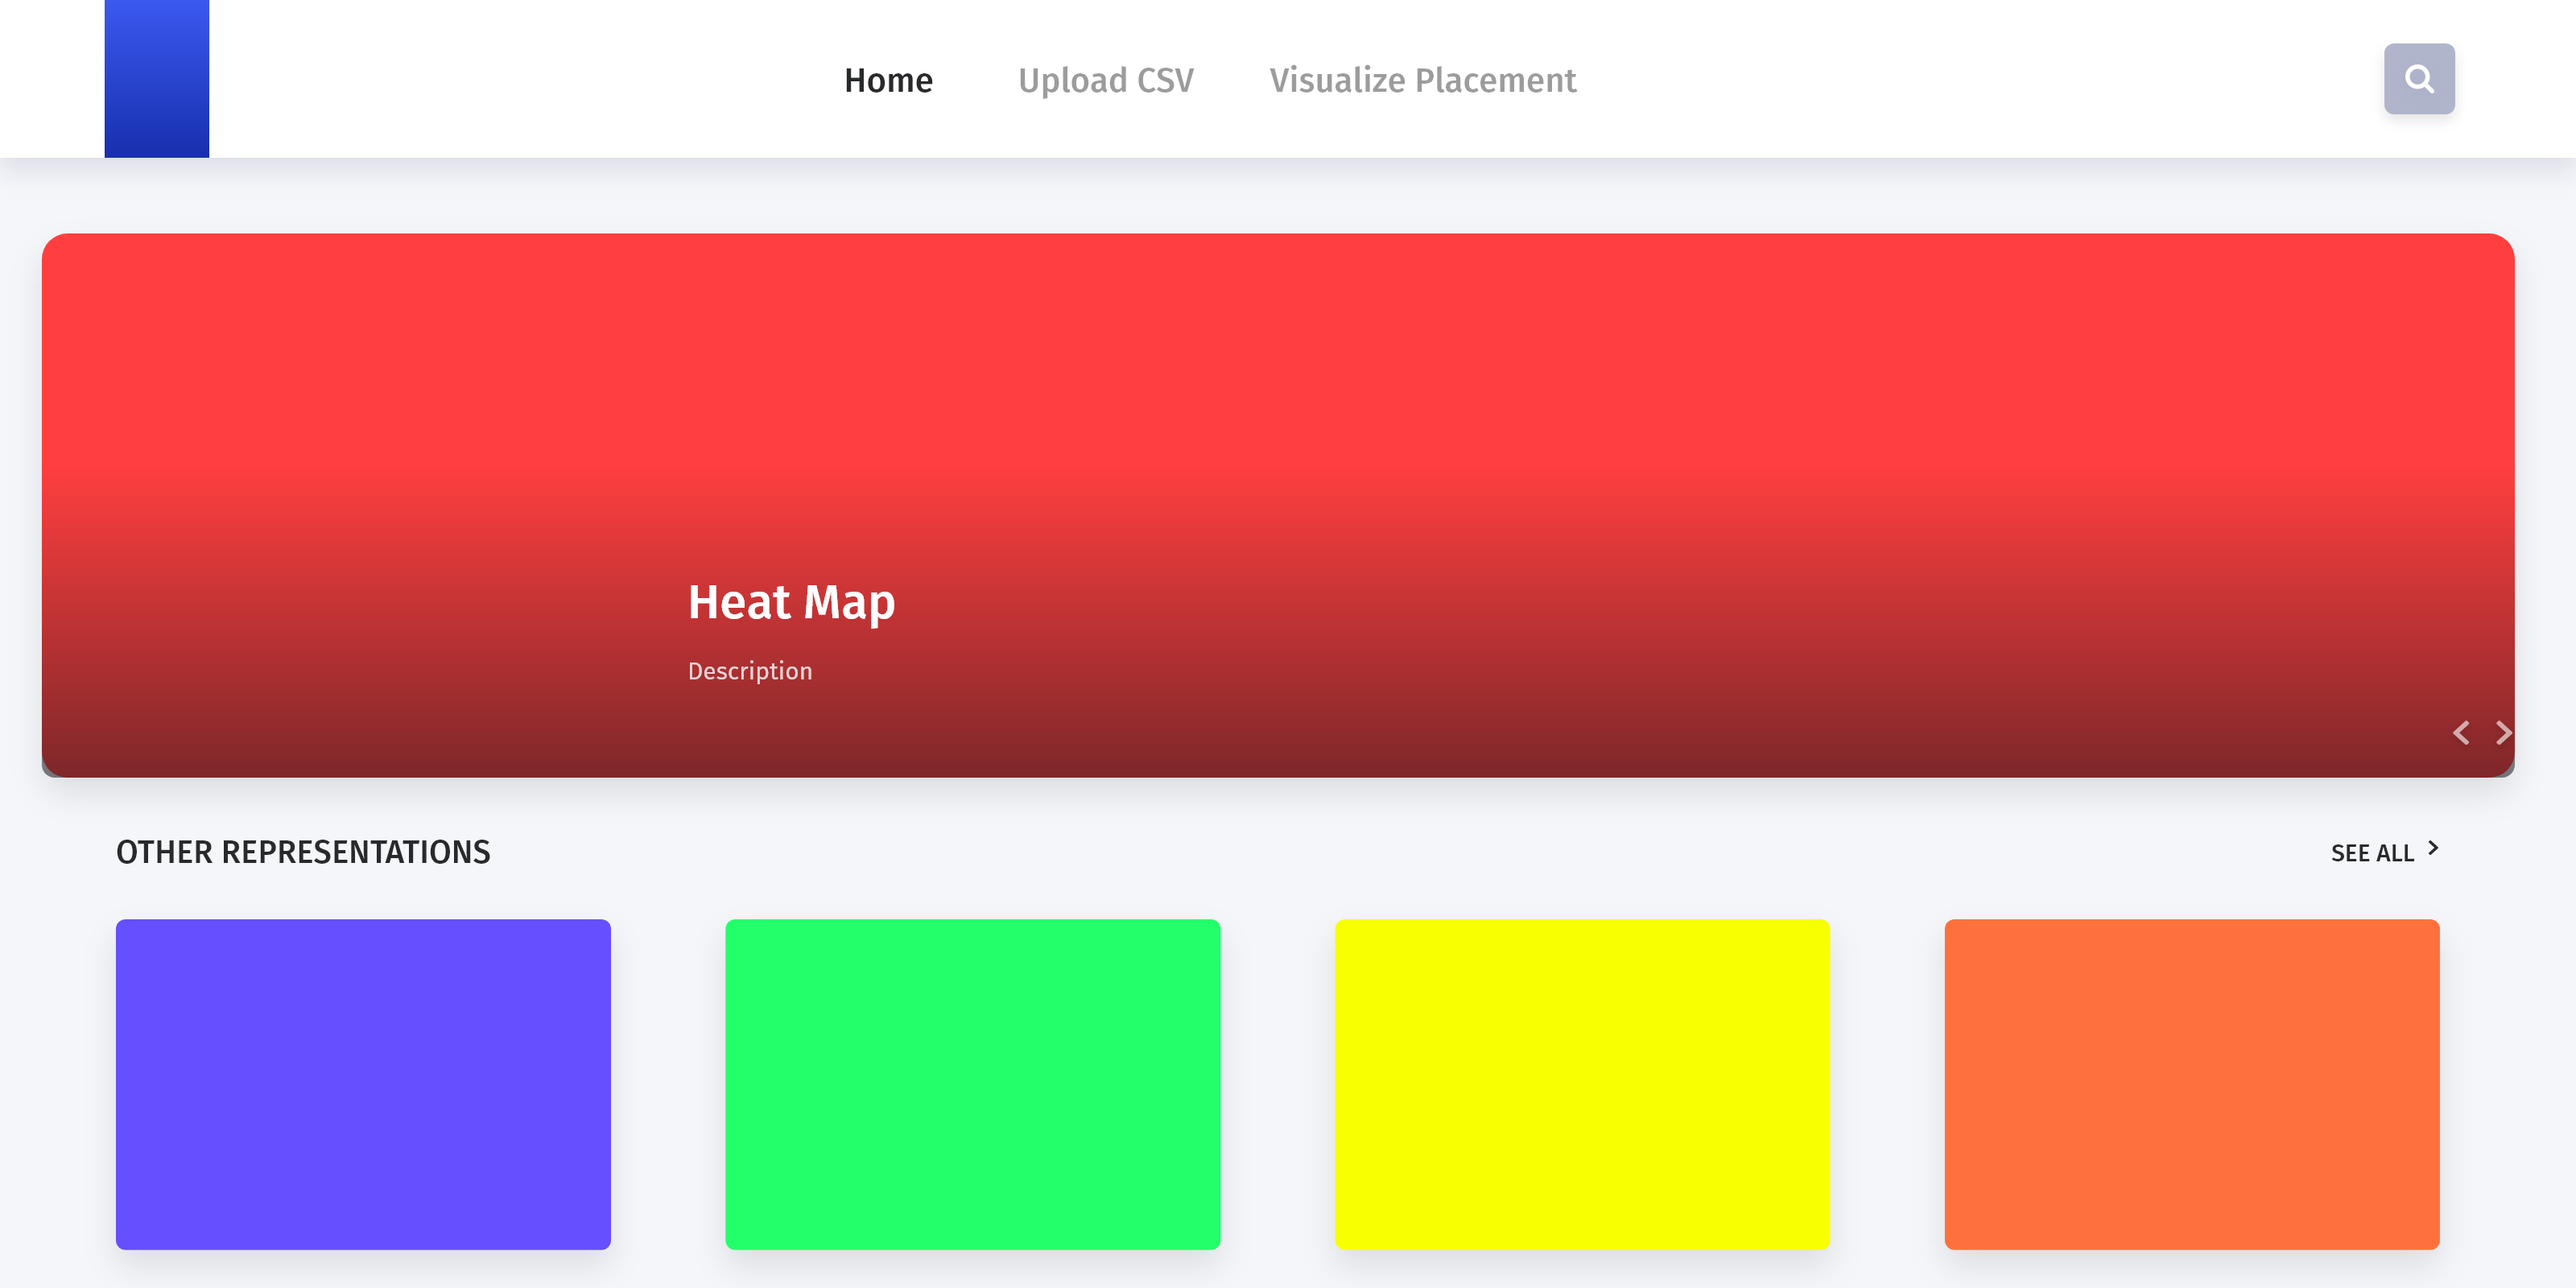
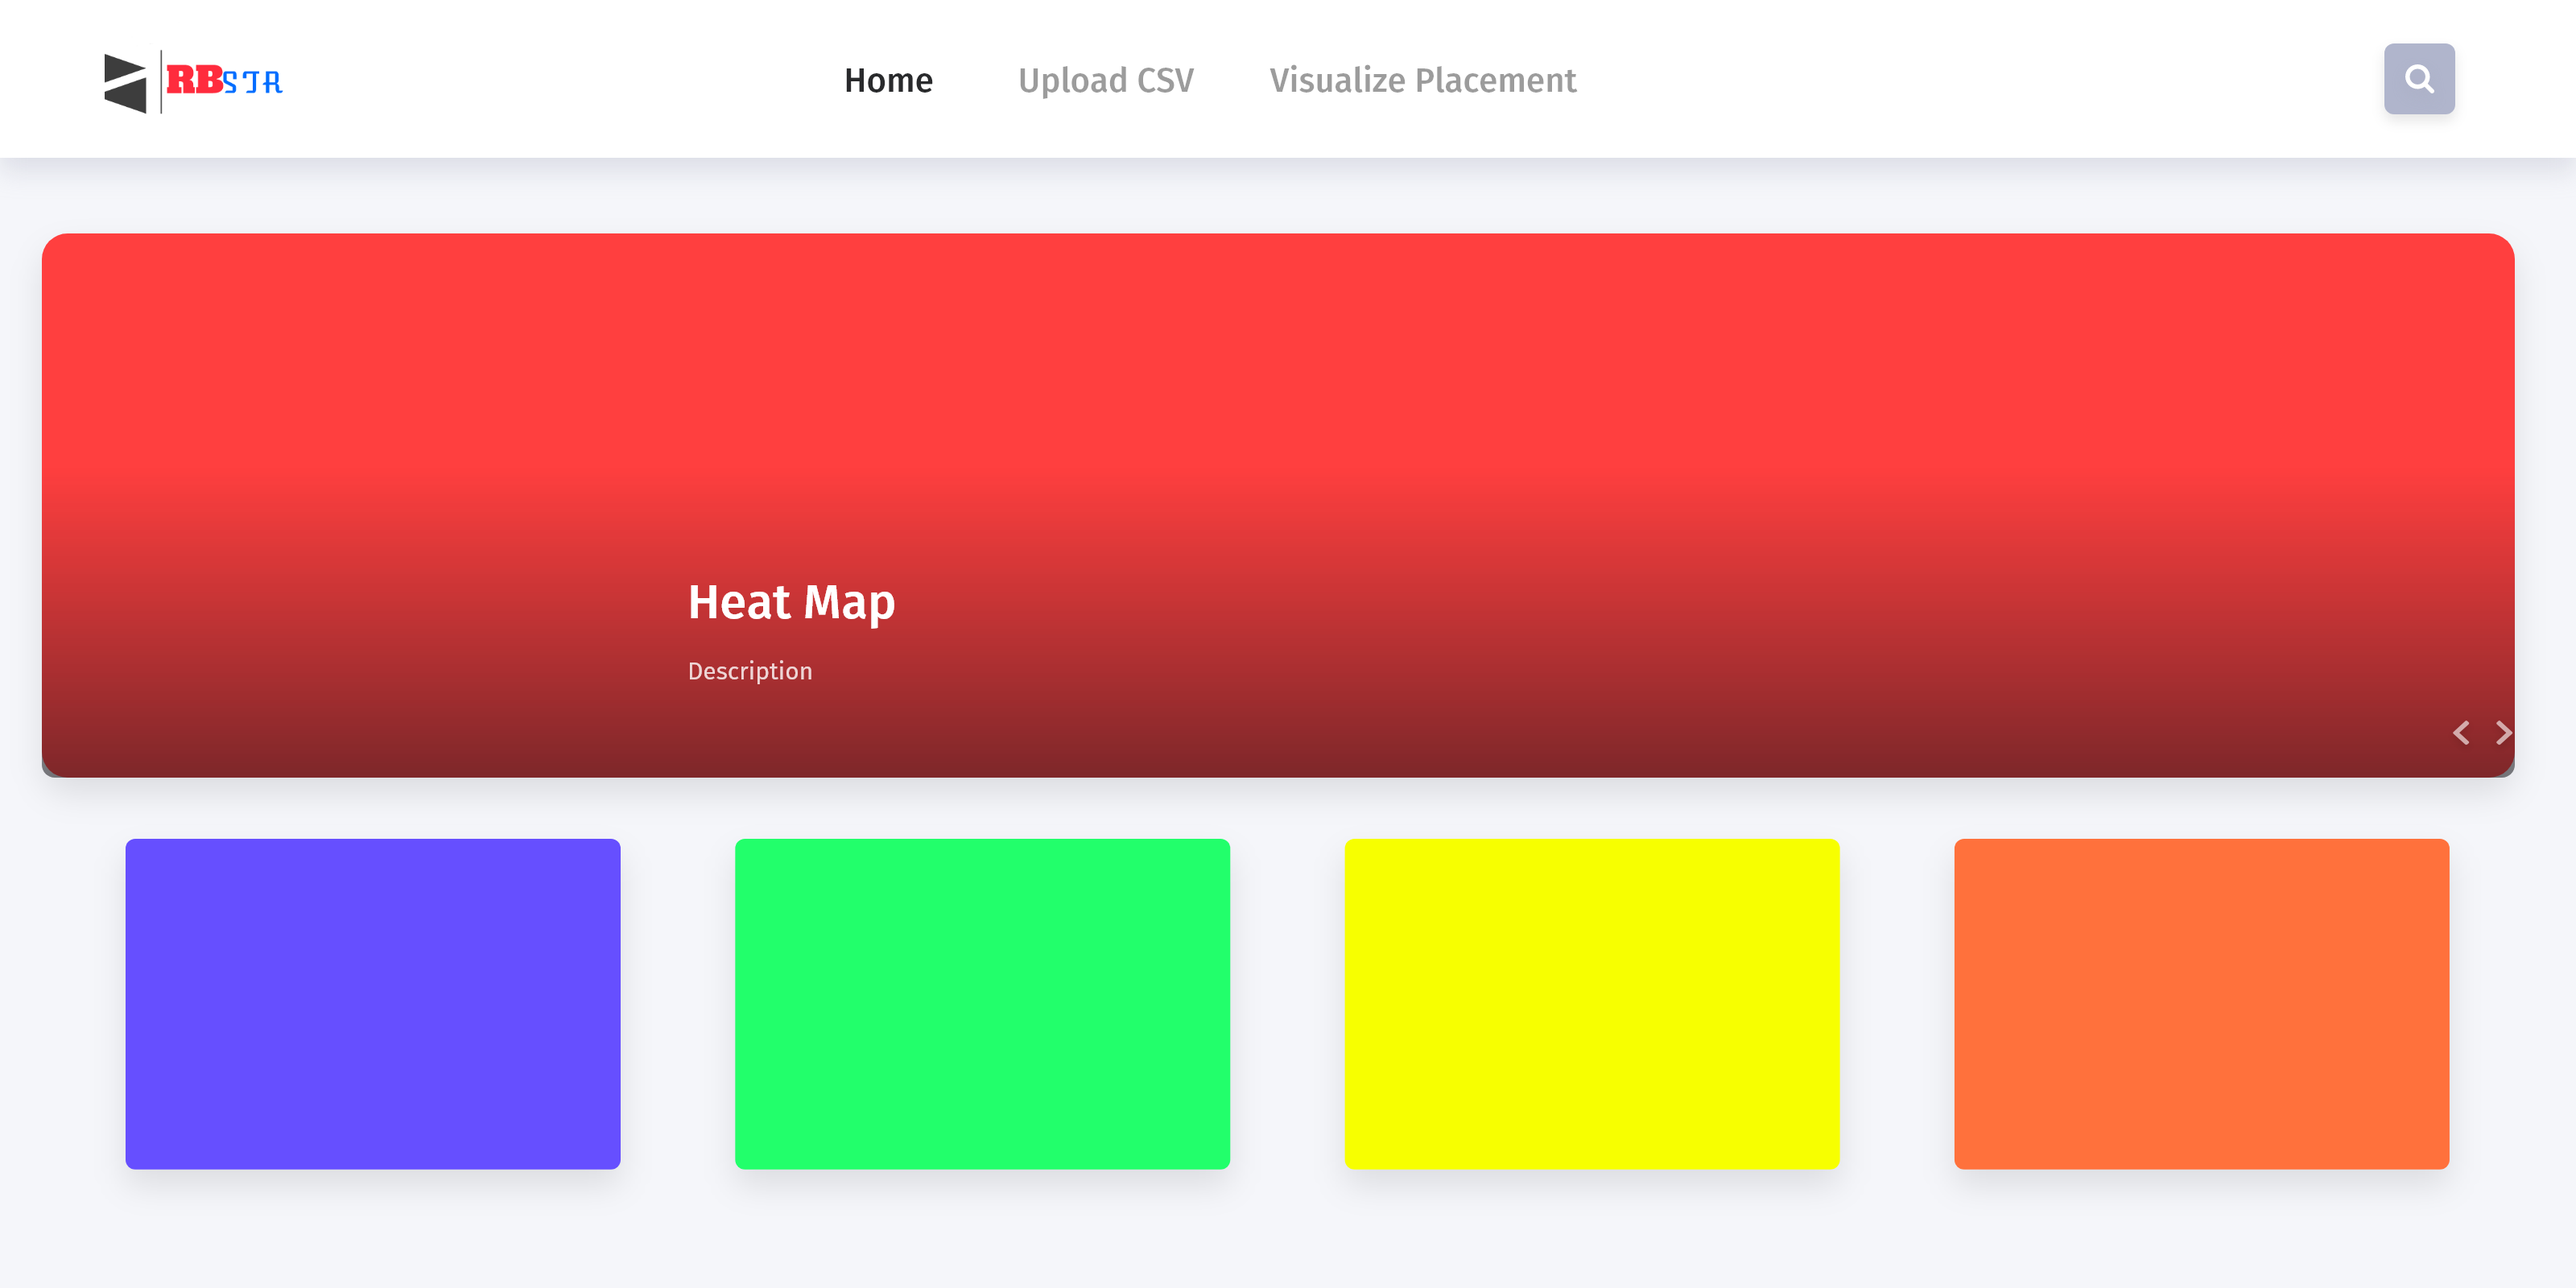
All page templates done

diff --git a/templates/home.html b/templates/home.html
@@ -18,10 +18,62 @@
     font-size:0; 
     }
   </style>
+  <link rel="stylesheet" href="{{ url_for('static',    filename='css/template.css') }}">
   <body>
       <button type="button" class="button" id="homeBut" style="position: absolute;left: 33%;top: 6%;width: 4%;height: 3%;" onclick="window.location.href='{{ url_for('home') }}';">Upload CSV</button>
     <button type="button" class="button" id="uploadBut" style="position: absolute;left: 40%;top: 6%; width: 6%;height: 3%;" onclick="window.location.href='{{ url_for('upload') }}';">Upload CSV</button>
     <button type="button" id="visualBut" class=""style="position: absolute;left: 49%;top: 6%; width: 12%;height:3%;" onclick="window.location.href='{{ url_for('view') }}';">Visualize Placement </button>
+    <div  style="position: absolute; left: 25.4%;top: 20.2%;" onclick="choose('one')">
+      <img id="one" alt="image 1"src = "/static/{{results[0]}}" height="390" width="900"></div>
+    <div  style="position: absolute; left: 5.4%;top: 70.5%;" onclick="choose('two')">
+      <img id="two" alt="image 1"src = "/static/{{results[1]}}" height="220" width="350"></div>
+    <div  style="position: absolute; left: 29%;top: 70.5%;" onclick="choose('three')">
+      <img id="three" alt="image 1"src = "/static/{{results[2]}}" height="220" width="350"></div>
+    <div  style="position: absolute; left: 52.8%;top: 70.5%;" onclick="choose('four')">
+      <img id="four" alt="image 1"src = "/static/{{results[3]}}" height="220" width="350"></div>
+    <div  style="position: absolute; left: 76.4%;top: 70.5%;" onclick="choose('five')">
+      <img id="five" alt="image 1"src = "/static/{{results[4]}}" height="220" width="350"></div>
+
+      <div id="myModal" class="modal" style="position: absolute; left:25%;top:15%; width:50%;height: 50%;background-color: whitesmoke">
+
+        <!-- The Close Button -->
+        <span class="close">&times;</span>
+
+        <!-- Modal Content (The Image) -->
+        <img class="modal-content" id="img01">
+
+        <!-- Modal Caption (Image Text) -->
+        <div id="caption"></div>
+    </div>
+
+    <script>
+    var modal = document.getElementById("myModal");
+
+    // Get the image and insert it inside the modal - use its "alt" text as a caption
+    var img = document.getElementById(value);
+    function choose(name)
+    {
+        img=document.getElementById(name);
+        // alert("Reached this part"+img.src);
+        var modalImg = document.getElementById("img01");
+        var captionText = document.getElementById("caption");
+        img.onclick = function(){
+            // alert("hello");
+        modal.style.display = "block";
+        modalImg.src = this.src;
+        captionText.innerHTML = this.alt;
+        }
+        // Get the <span> element that closes the modal
+    var span = document.getElementsByClassName("close")[0];
+
+    // When the user clicks on <span> (x), close the modal
+    span.onclick = function() {
+    modal.style.display = "none";
+    }
+    }
     
+
+    
+  </script>
   </body>
 </html>

diff --git a/static/css/template.css b/static/css/template.css
@@ -67,7 +67,7 @@ body {
   position: absolute;
   top: 15px;
   right: 35px;
-  color: #f1f1f1;
+  color: #ccc;
   font-size: 40px;
   font-weight: bold;
   transition: 0.3s;

diff --git a/main.py b/main.py
@@ -9,7 +9,7 @@ app = flask.Flask(__name__)
 results=[  'arch.jpg','blockchain.jpg','book.png','database.png','arch.jpg' ,'output.png'] #has the file names
 @app.route("/")
 def home():
-    return flask.render_template("home.html")
+    return flask.render_template("home.html",results=results)
 
 @app.route("/upload")
 def upload():
